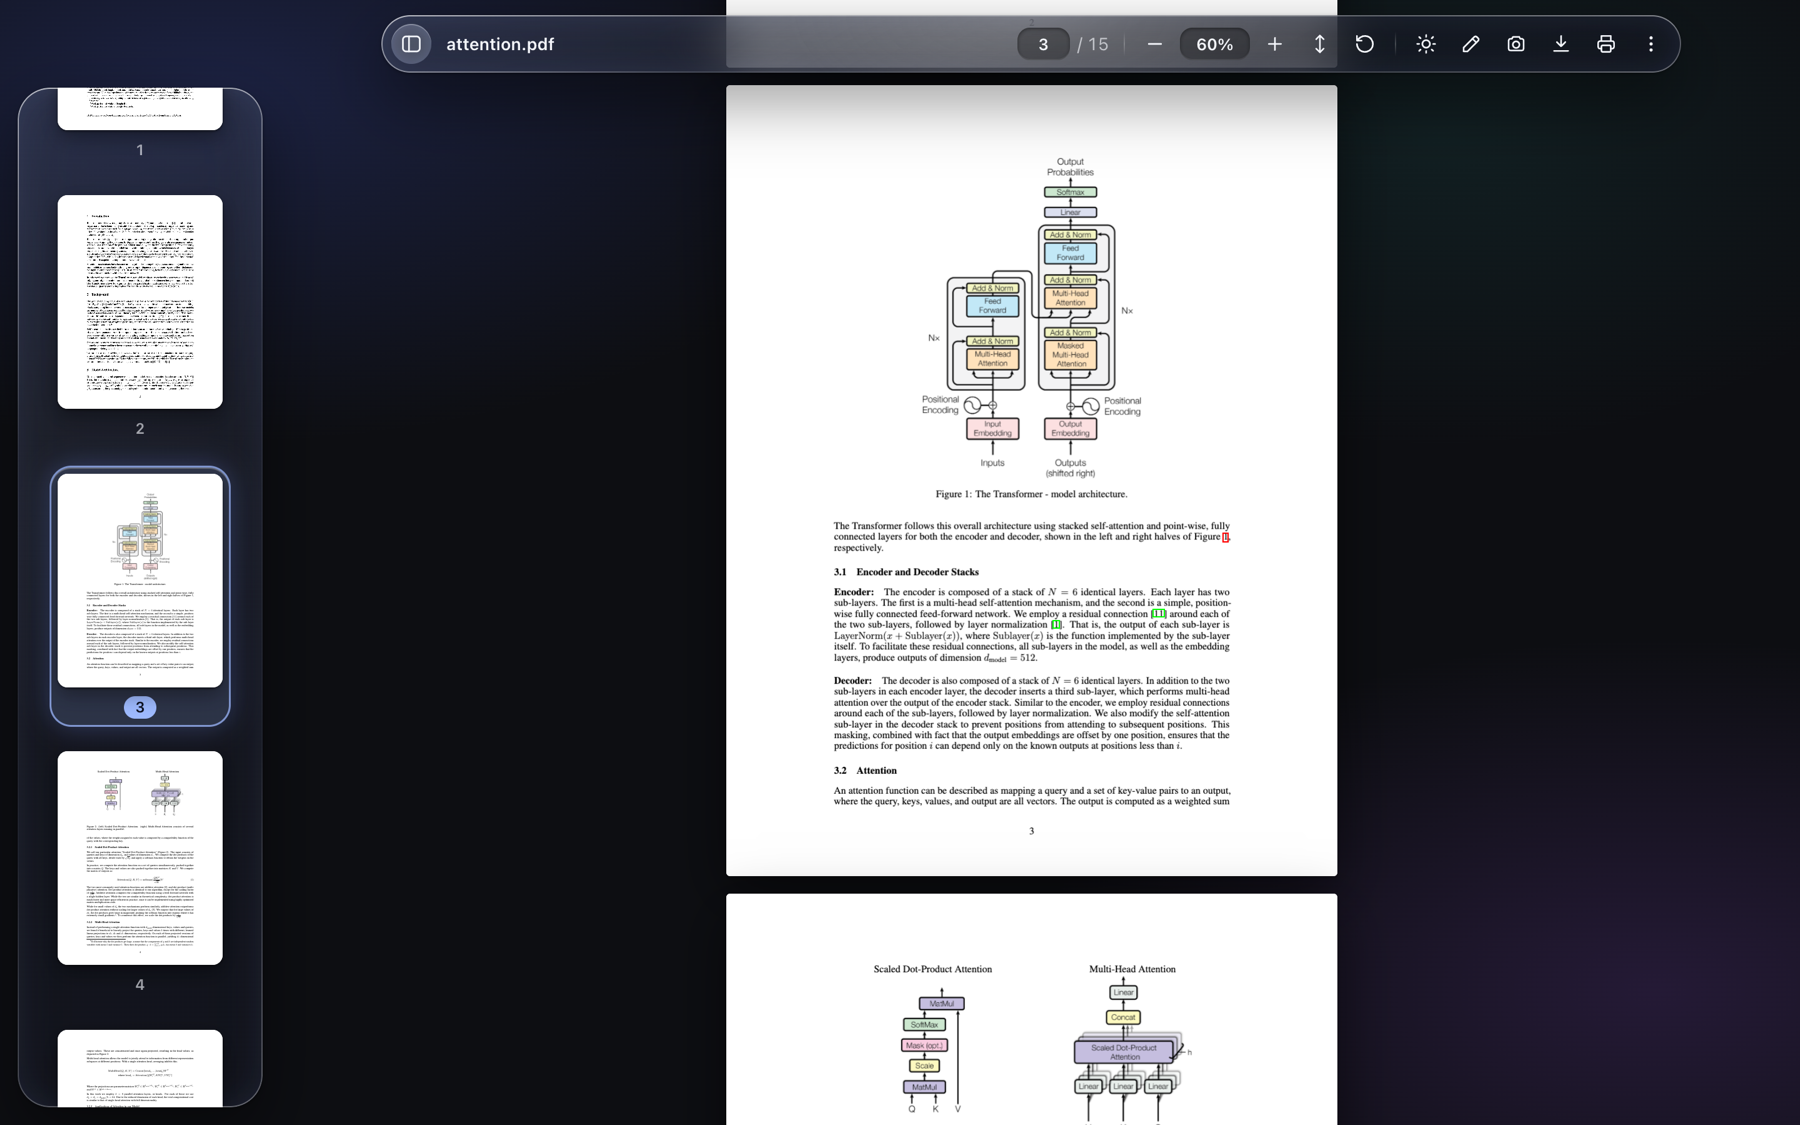
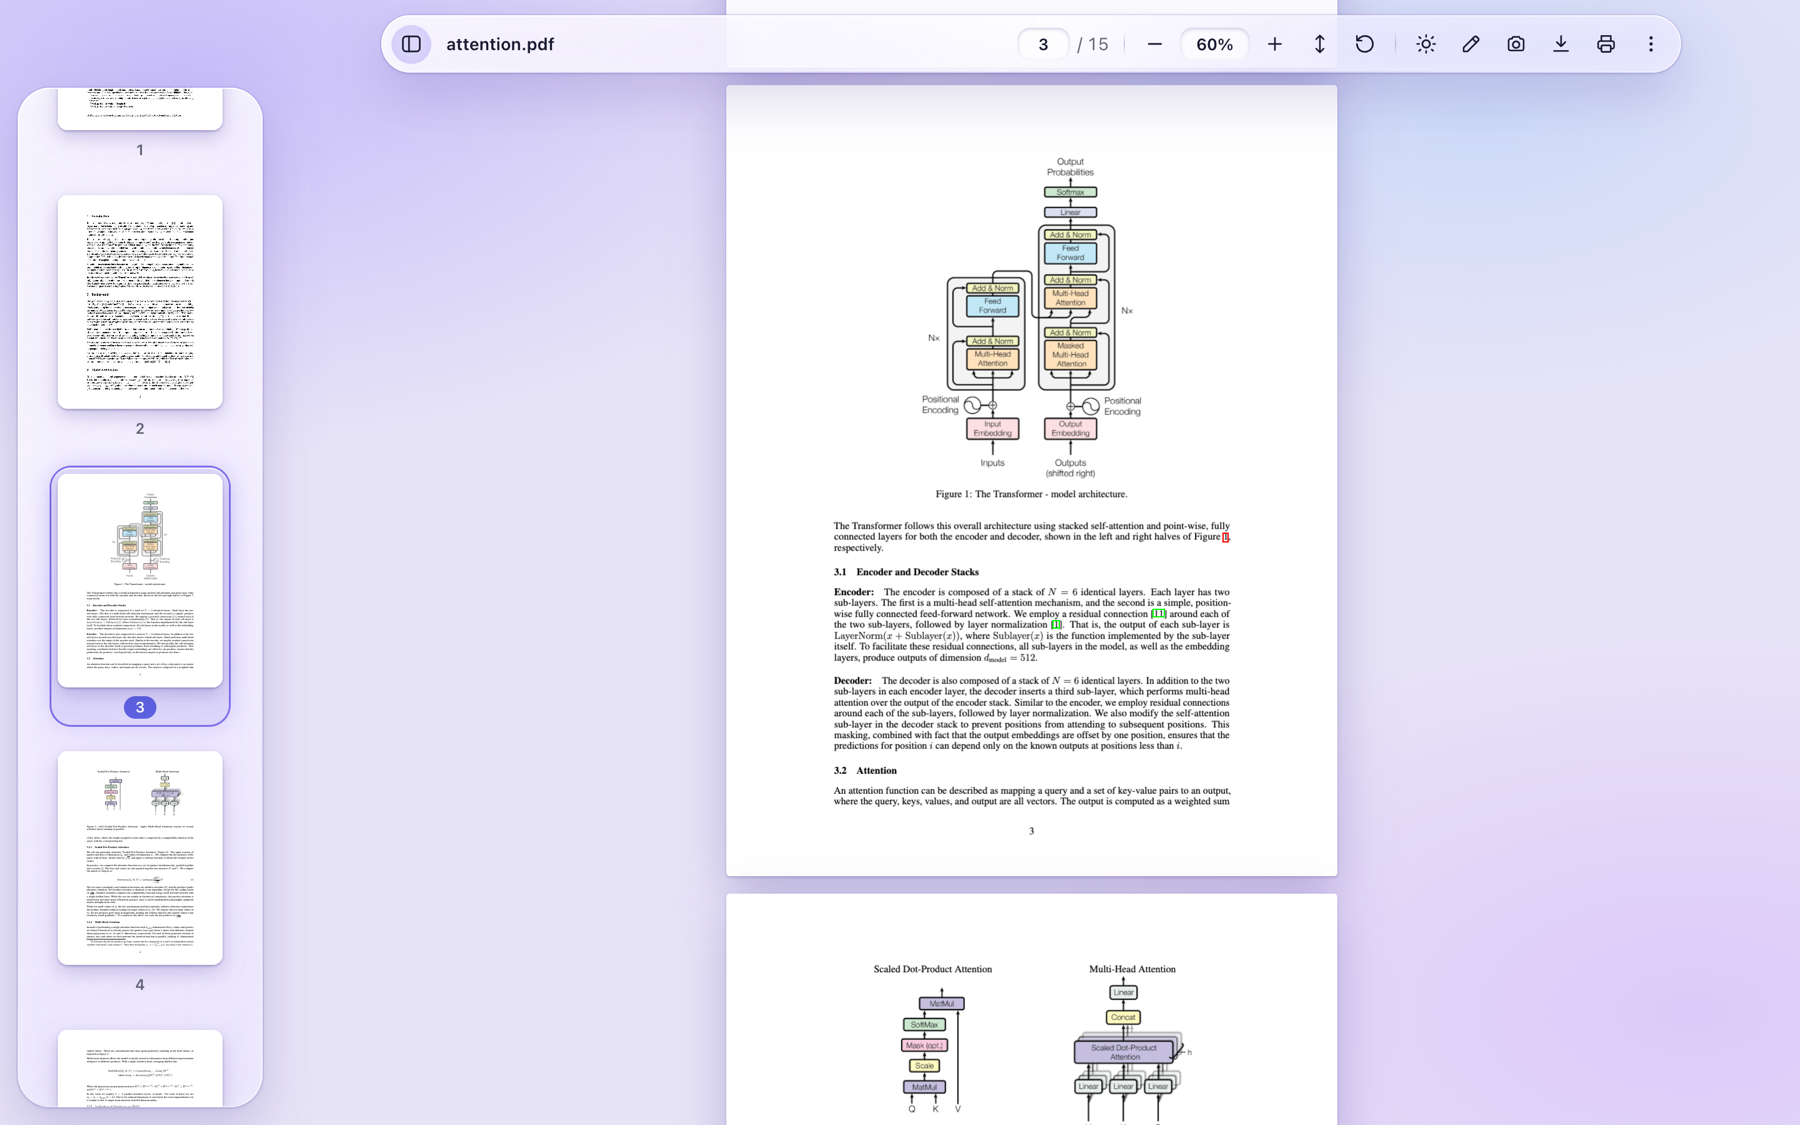
Use the light theme for the main screenshot

diff --git a/README.md b/README.md
@@ -4,7 +4,7 @@
 > found annoying about Chrome's built-in PDF viewer. I built it for personal use only, but other people might find it
 > useful too, so I put it on GitHub. Issues and pull requests are welcome.
 
-![The reader, dark theme, showing the Transformer figure from "Attention Is All You Need"](docs/hero.png)
+![The reader, light theme, showing the Transformer figure from "Attention Is All You Need"](docs/hero.png)
 
 A Chrome extension that puts DeepSeek in your side panel and makes it easy to ask about whatever you're reading.
 
